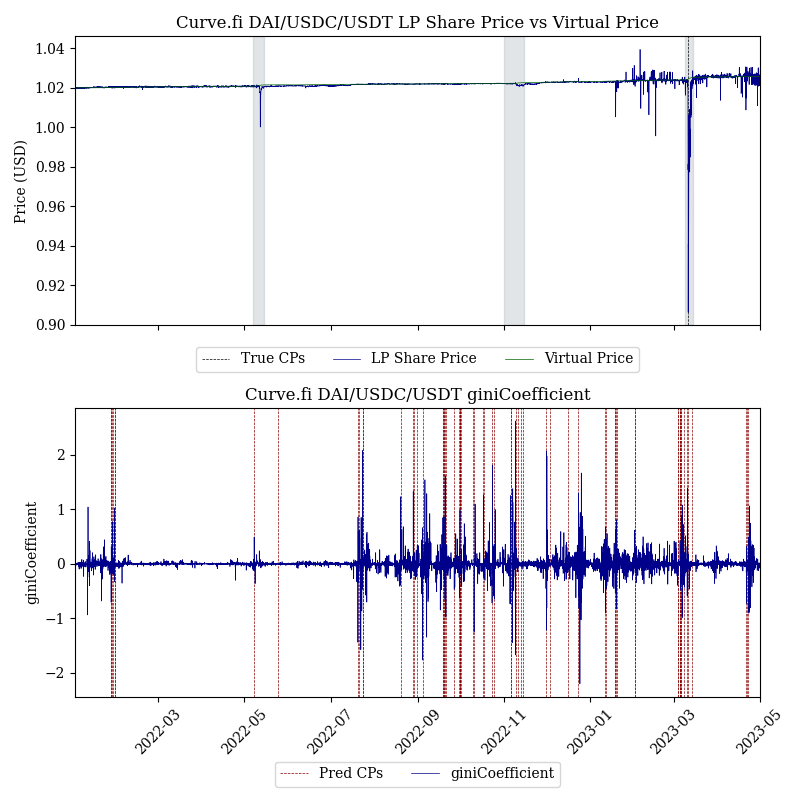
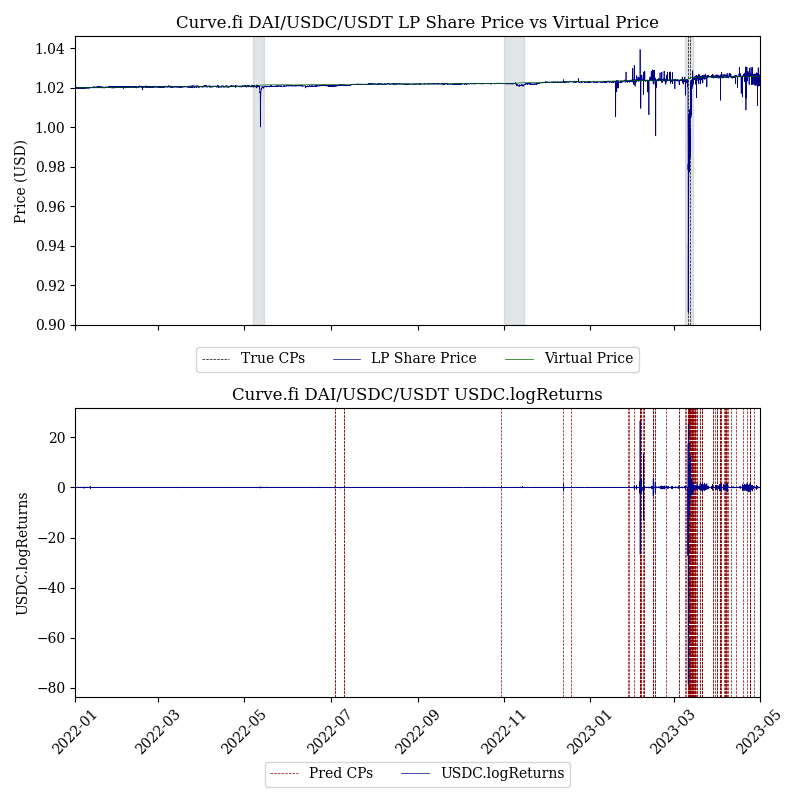
token metrics

diff --git a/curvemetrics/scripts/modeling/tune.py b/curvemetrics/scripts/modeling/tune.py
@@ -6,8 +6,6 @@ import json
 from datetime import datetime, timedelta
 import numpy as np
 import warnings
-import logging
-import sys
 
 from ...src.classes.model import BOCD
 from ...src.classes.datahandler import DataHandler
@@ -19,8 +17,8 @@ from ...src.plotting.plot import bocd_plot_comp
 warnings.filterwarnings("ignore")
 
 ALPHA = [10**i for i in range(-5, 5)]
-BETA = [10**i for i in range(-5, 2)]
-KAPPA = [10**i for i in range(-5, 2)]
+BETA = [10**i for i in range(-5, 5)]
+KAPPA = [10**i for i in range(-5, 5)]
 GRID = [(a, b, k) for a in ALPHA for b in BETA for k in KAPPA]
 
 FREQ = timedelta(hours=1)
@@ -44,7 +42,13 @@ ETH_POOLS = [
     '0xa1f8a6807c402e4a15ef4eba36528a3fed24e577',
 ]
 
-def setup(pool, metric, start, end):
+ETH_TOKENS = [
+    '0xae7ab96520de3a18e5e111b5eaab095312d7fe84',
+    '0xbe9895146f7af43049ca1c1ae358b0541ea49704',
+    '0x5e8422345238f34275888049021821e8e08caa1f',
+]
+
+def setup_pool(pool, metric, start, end):
     metricsprocessor = MetricsProcessor(datahandler.pool_metadata, datahandler.token_metadata)
     pool_name = datahandler.pool_metadata[pool]['name']
 
@@ -61,15 +65,40 @@ def setup(pool, metric, start, end):
     snapshots = datahandler.get_pool_snapshots(pool, start_ts, end_ts)
     virtual_price = snapshots['virtualPrice'] / 10**18
     y_true = metricsprocessor.true_cps(lp_share_price, virtual_price, freq=FREQ, thresh=THRESH)
-    X = datahandler.get_X(metric, pool, start_ts, end_ts, FREQ)
+    X = datahandler.get_pool_X(metric, pool, start_ts, end_ts, FREQ)
 
     return X, y_true, lp_share_price.resample(FREQ).last(), virtual_price, pool_name
 
-def test(pool, metric, start, end, params):
+def setup_token(token, metric, start, end):
+    metricsprocessor = MetricsProcessor(datahandler.pool_metadata, datahandler.token_metadata)
+    token_name = datahandler.token_metadata[token]['name']
 
-    X, y_true, lp_share_price, virtual_price, pool_name = setup(pool, metric, start, end)
+    start_ts = datetime.timestamp(datetime.fromisoformat(start))
+    end_ts = datetime.timestamp(datetime.fromisoformat(end))
 
-    print(f"[{datetime.now()}] Testing {metric} on {pool_name} from {start} to {end}")
+    ohlcv = datahandler.get_ohlcv_data(token, start_ts, end_ts)
+    ohlcv['peg'] = 1
+    peg = ohlcv['peg']
+    price = ohlcv['close']
+
+    if token in ETH_TOKENS:
+        eth = '0xeeeeeeeeeeeeeeeeeeeeeeeeeeeeeeeeeeeeeeee'
+        eth_price = datahandler.get_ohlcv_data(eth, start=start_ts, end=end_ts)['close']
+        price /= eth_price
+    
+    y_true = metricsprocessor.true_cps(price, peg, freq=FREQ, thresh=THRESH)
+    X = datahandler.get_token_X(metric, token, start_ts, end_ts, FREQ)
+
+    return X, y_true, price.resample(FREQ).last(), peg, token_name
+
+def test(pool, metric, start, end, params, pool_token):
+
+    if pool_token == 'pool':
+        X, y_true, price, peg, name = setup_pool(pool, metric, start, end)
+    elif pool_token == 'token':
+        X, y_true, price, peg, name = setup_token(pool, metric, start, end)
+
+    print(f"[{datetime.now()}] Testing {metric} on {name} from {start} to {end}")
 
     model = BOCD(margin=MARGIN, alpha=ALPHA, verbose=True, weight_func=WEIGHT_FUNC)
     model.update({'alpha':params['alpha'], 'beta':params['beta'], 'kappa':params['kappa']})
@@ -82,19 +111,22 @@ def test(pool, metric, start, end, params):
 
     # datahandler.insert_changepoints(model.y_pred, pool, 'bocd', metric)
 
-    bocd_plot_comp(X, lp_share_price, virtual_price, y_true, y_pred, save=True, file=f'./figs/testing/{metric}/{pool}.png', metric=metric, pool=pool_name)
-    print(f"\n[{datetime.now()}] Finished testing {pool_name}\n")
+    bocd_plot_comp(X, price, peg, y_true, y_pred, save=True, file=f'./figs/testing/{pool_token}/{metric}/{pool}.png', metric=metric, pool=pool_name)
+    print(f"\n[{datetime.now()}] Finished testing {name}\n")
 
     return params, (F, P, R)
 
-def train(pool, metric, start, end):
+def train(pool, metric, start, end, pool_token):
 
-    X, y_true, lp_share_price, virtual_price, pool_name = setup(pool, metric, start, end)
+    if pool_token == 'pool':
+        X, y_true, price, peg, name = setup_pool(pool, metric, start, end)
+    elif pool_token == 'token':
+        X, y_true, price, peg, name = setup_token(pool, metric, start, end)
 
     if not len(y_true):
         raise Exception("No CPs in training set")
 
-    print(f"[{datetime.now()}] Training {metric} on {pool_name} from {start} to {end}")
+    print(f"[{datetime.now()}] Training {metric} on {name} from {start} to {end}")
 
     model = BOCD(margin=MARGIN, alpha=ALPHA, verbose=True, weight_func=WEIGHT_FUNC)
     model.tune(GRID, X, y_true)
@@ -102,8 +134,8 @@ def train(pool, metric, start, end):
 
     # datahandler.insert_changepoints(model.y_pred, pool, 'bocd', metric)
 
-    bocd_plot_comp(X, lp_share_price, virtual_price, y_true, y_pred, save=True, file=f'./figs/training/{metric}/{pool}.png', metric=metric, pool=pool_name)
-    print(f"\n[{datetime.now()}] Finished training {pool_name}\n")
+    bocd_plot_comp(X, price, peg, y_true, y_pred, save=True, file=f'./figs/training/{pool_token}/{metric}/{pool}.png', metric=metric, pool=pool_name)
+    print(f"\n[{datetime.now()}] Finished training {name}\n")
 
     return model.best_params_dict, model.best_results
 
@@ -118,12 +150,9 @@ def main():
     config = load_config()
 
     # Pool metrics
-    metrics = ['shannonsEntropy', 'netSwapFlow', 'netLPFlow', '300.Markout']
+    # metrics = ['shannonsEntropy', 'giniCoefficient', 'netSwapFlow', 'netLPFlow', '300.Markout']
+    metrics = ['300.Markout']
     for metric in metrics:
-
-        filename = f'./logs/{metric}.log'
-        logging.basicConfig(filename=filename, level=logging.INFO)
-        sys.stdout = open(filename, 'w')
 
         ### TRAINING
         train_pool = "0xceaf7747579696a2f0bb206a14210e3c9e6fb269"
@@ -167,6 +196,3 @@ def main():
 if __name__ == "__main__":
     main()
     datahandler.close()
-    # Close the file after redirecting print statements
-    sys.stdout.close()
-    sys.stdout = sys.__stdout__  # Reset stdout to its default value

diff --git a/curvemetrics/src/plotting/plot.py b/curvemetrics/src/plotting/plot.py
@@ -100,12 +100,6 @@ def bocd_plot_comp(X, lp_share_price, virtual_price, true, pred, show=False, sav
     else: ncol=2
     axs[0].legend(loc='upper center', bbox_to_anchor=(0.5, -0.05), ncol=ncol)
 
-    bottom, top = axs[0].get_ylim()
-    axs[0].fill_betweenx([bottom, top], datetime(2022, 5, 7), datetime(2022, 5, 15), color='slategrey', alpha=0.2)
-    axs[0].fill_betweenx([bottom, top], datetime(2022, 11, 1), datetime(2022, 11, 15), color='slategrey', alpha=0.2)
-    axs[0].fill_betweenx([bottom, top], datetime(2023, 3, 9), datetime(2023, 3, 15), color='slategrey', alpha=0.2)
-    axs[0].set_ylim(bottom, top)
-
     if len(pred):
         for p in pred:
             axs[1].axvline(p, linestyle='--', color='darkred', linewidth=0.5)
@@ -114,6 +108,13 @@ def bocd_plot_comp(X, lp_share_price, virtual_price, true, pred, show=False, sav
     axs[1].plot(X.index, X, linewidth=0.5, c='darkblue', label=metric)
 
     axs[0].set_xlim(X.index[0], X.index[-1])
+
+    for ax in axs:
+        bottom, top = ax.get_ylim()
+        ax.fill_betweenx([bottom, top], datetime(2022, 5, 7), datetime(2022, 5, 15), color='slategrey', alpha=0.2)
+        ax.fill_betweenx([bottom, top], datetime(2022, 11, 1), datetime(2022, 11, 15), color='slategrey', alpha=0.2)
+        ax.fill_betweenx([bottom, top], datetime(2023, 3, 9), datetime(2023, 3, 15), color='slategrey', alpha=0.2)
+        ax.set_ylim(bottom, top)
 
     if len(true): ncol=2
     else: ncol=1

diff --git a/curvemetrics/src/classes/datahandler.py b/curvemetrics/src/classes/datahandler.py
@@ -656,7 +656,7 @@ class DataHandler():
         decimals = np.array([self.token_metadata[token]['decimals'] for token in tokens])
         return np.array(row) / 10**decimals
 
-    def get_X(self, metric, pool, start_ts, end_ts, freq):
+    def get_pool_X(self, metric, pool, start_ts, end_ts, freq):
         data = self.get_pool_metric(pool, metric, start_ts, end_ts)
 
         if metric in ['giniCoefficient', 'shannonsEntropy']:
@@ -668,4 +668,16 @@ class DataHandler():
             X = (X - X.mean()) / X.std()
         else:
             raise Exception('Not Implemented Error')
+
+        return X
+
+    def get_token_X(self, metric, token, start_ts, end_ts, freq):
+        data = self.get_token_metric(token, metric, start_ts, end_ts)
+
+        if 'logReturns' in metric:
+            X = data.resample(freq).sum()
+            X = (X - X.mean()) / X.std()
+        else:
+            raise Exception('Not Implemented Error')
+
         return X
